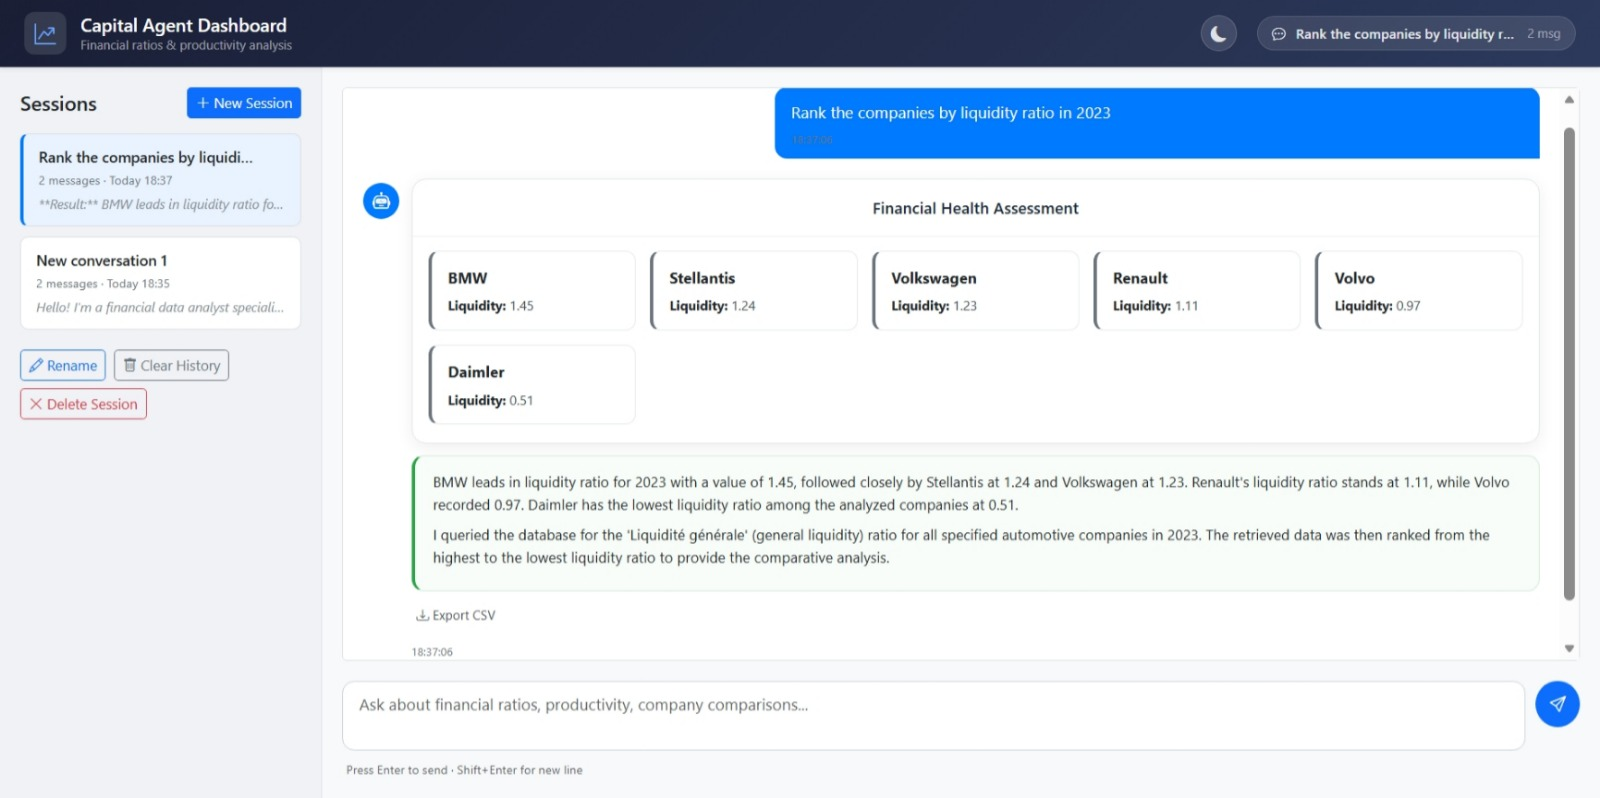
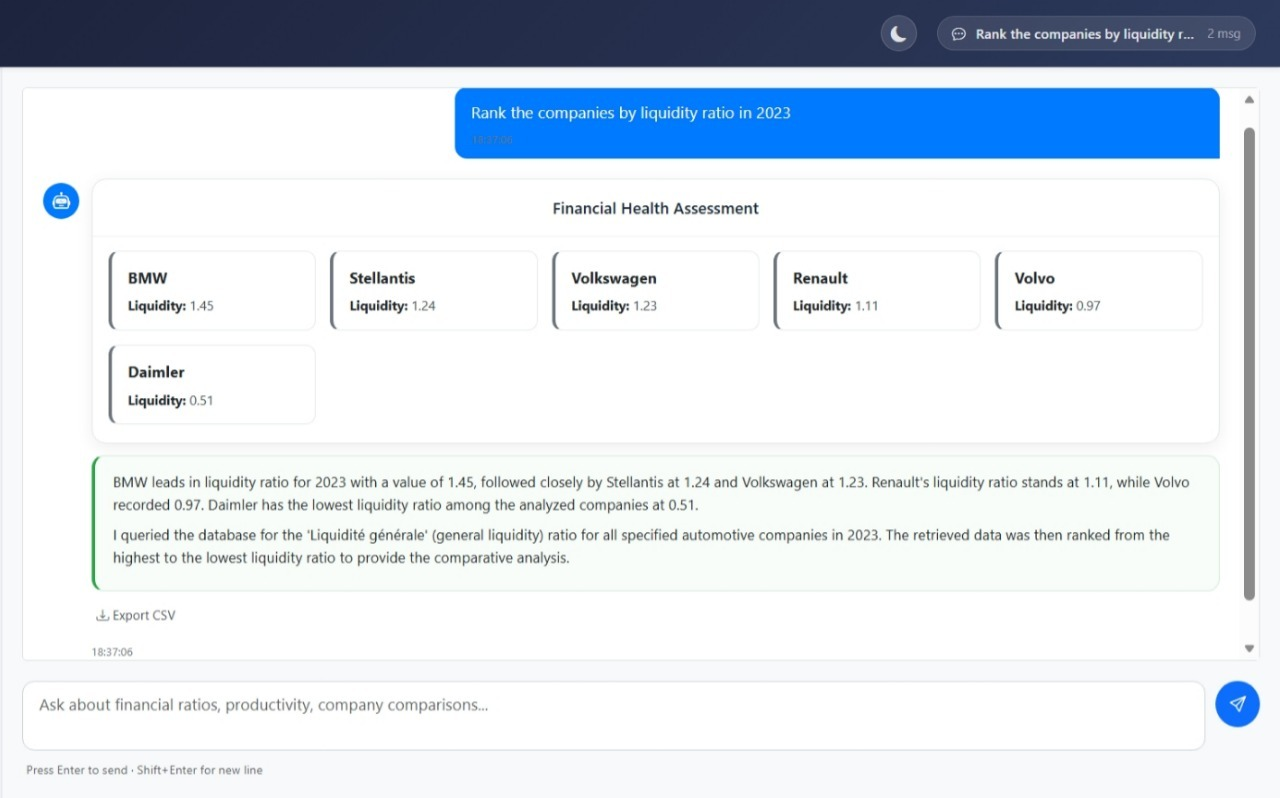
Add the Gestion Hospitaliere project and fix two more image presentation issues
Bouchra pointed out a Java EE hospital management project (Projet_JEE
on GitHub, Gestion Hospitaliere: patients, doctors, and appointments in
one place) had been left out of the portfolio entirely. Added it as a
new card, pulling a frame from the demo video already sitting in that
repository since the app needs a live MySQL database to run.

Also addressed feedback that the IFRS Tag Manager and Capital Agent
images were not presented well. IFRS Tag Manager was technically fine
but showed an empty, nothing selected state, swapped it for a later
frame from the same video showing an actual AI prediction with a
confidence score, which also happens to crop cleanly since the white
card sits centered with matching margin on both sides in that frame.
Capital Agent's default centered crop was slicing through the left
session sidebar mid word, cropped the source image itself ahead of
time to drop that incomplete sidebar entirely instead.

diff --git a/index.html b/index.html
@@ -398,7 +398,7 @@
 
 <div class="stat-strip">
   <div class="stat-tile"><span class="num">+1 year</span><span class="label">professional experience at JAAG Advizory, alongside full time studies</span></div>
-  <div class="stat-tile"><span class="num">10 projects</span><span class="label">built end to end, from AI copilots to full stack apps</span></div>
+  <div class="stat-tile"><span class="num">11 projects</span><span class="label">built end to end, from AI copilots to full stack apps</span></div>
   <div class="stat-tile"><span class="num">3 platforms</span><span class="label">shipped across web, mobile, and Office tooling</span></div>
 </div>
 
@@ -424,7 +424,7 @@
 <!-- IFRS Tag Manager -->
 <div class="feature reverse">
   <div class="art a2 has-image">
-    <img class="pos-left" src="assets/ifrs-hitl-overview.png" alt="IFRS Tag Manager interface, showing the financial statement tabs, a searchable list of IFRS tags, and a retrain control" loading="lazy">
+    <img src="assets/ifrs-hitl-overview.png" alt="IFRS Tag Manager prediction test, showing an AI predicted IFRS tag matched to a label with a very high confidence score" loading="lazy">
     <span>IFRS Tag Manager, tagging interface</span>
   </div>
   <div class="copy">
@@ -569,6 +569,21 @@
     <p class="body">A reinforcement learning approach to compressing DistilBERT: a PPO agent learns which layers to prune, trained in a custom Gymnasium environment and evaluated on SST-2.</p>
     <p class="stack"><em>stack</em> pytorch / gymnasium / distilbert</p>
     <p class="note">Report available on request.</p>
+  </div>
+</div>
+
+<!-- Gestion Hospitaliere -->
+<div class="feature reverse">
+  <div class="art a2 has-image">
+    <img src="assets/jee-overview.png" alt="Gestion Hospitaliere dashboard, showing the navigation bar and total counts for patients, doctors, and sick patients" loading="lazy">
+    <span>Gestion Hospitaliere, dashboard</span>
+  </div>
+  <div class="copy">
+    <div class="tagline"><span class="pill public">public</span><span class="tagline-text">Coursework</span></div>
+    <h2>Gestion Hospitaliere</h2>
+    <p class="body">A hospital management application for a Java EE course, keeping patients, doctors, and appointments in one place, with a dashboard summarizing the caseload at a glance.</p>
+    <p class="stack"><em>stack</em> spring boot / thymeleaf / mysql</p>
+    <a class="cta ghost" href="https://github.com/Bouchrarg/Projet_JEE" target="_blank" rel="noopener">View repository</a>
   </div>
 </div>
 
